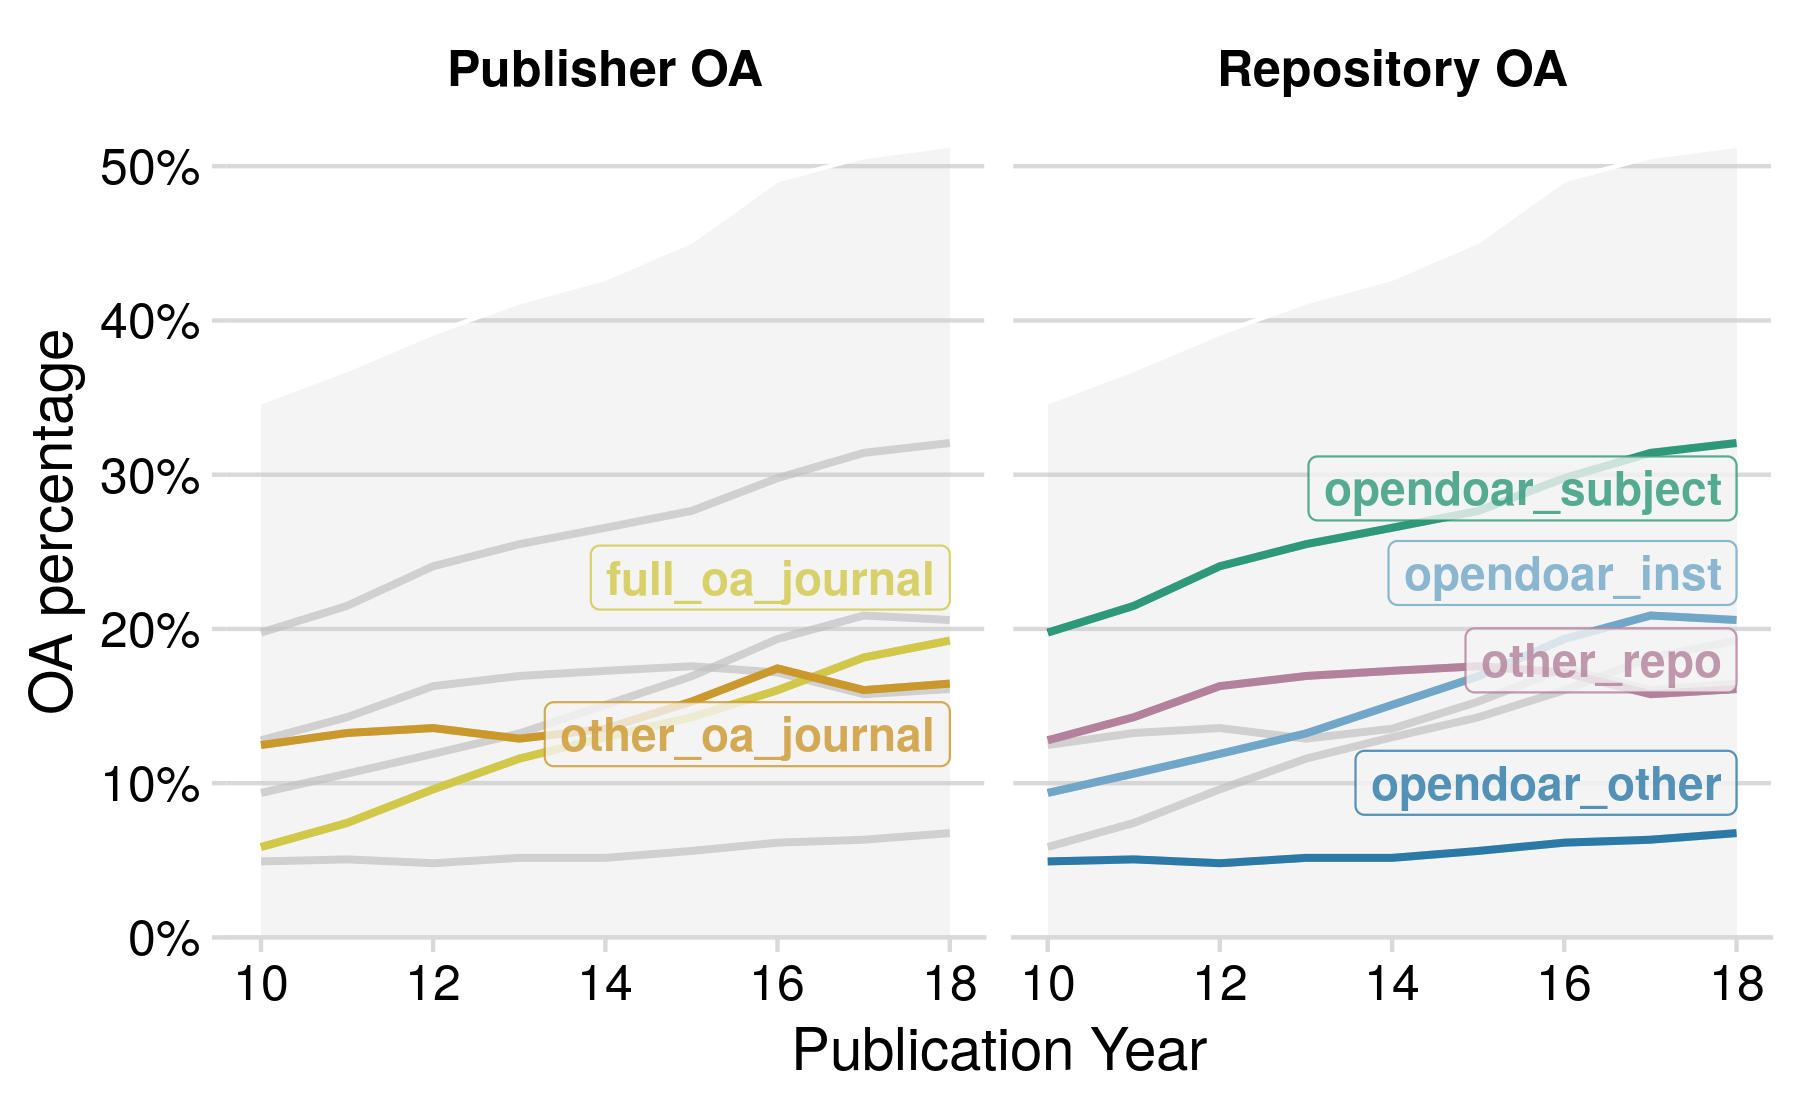
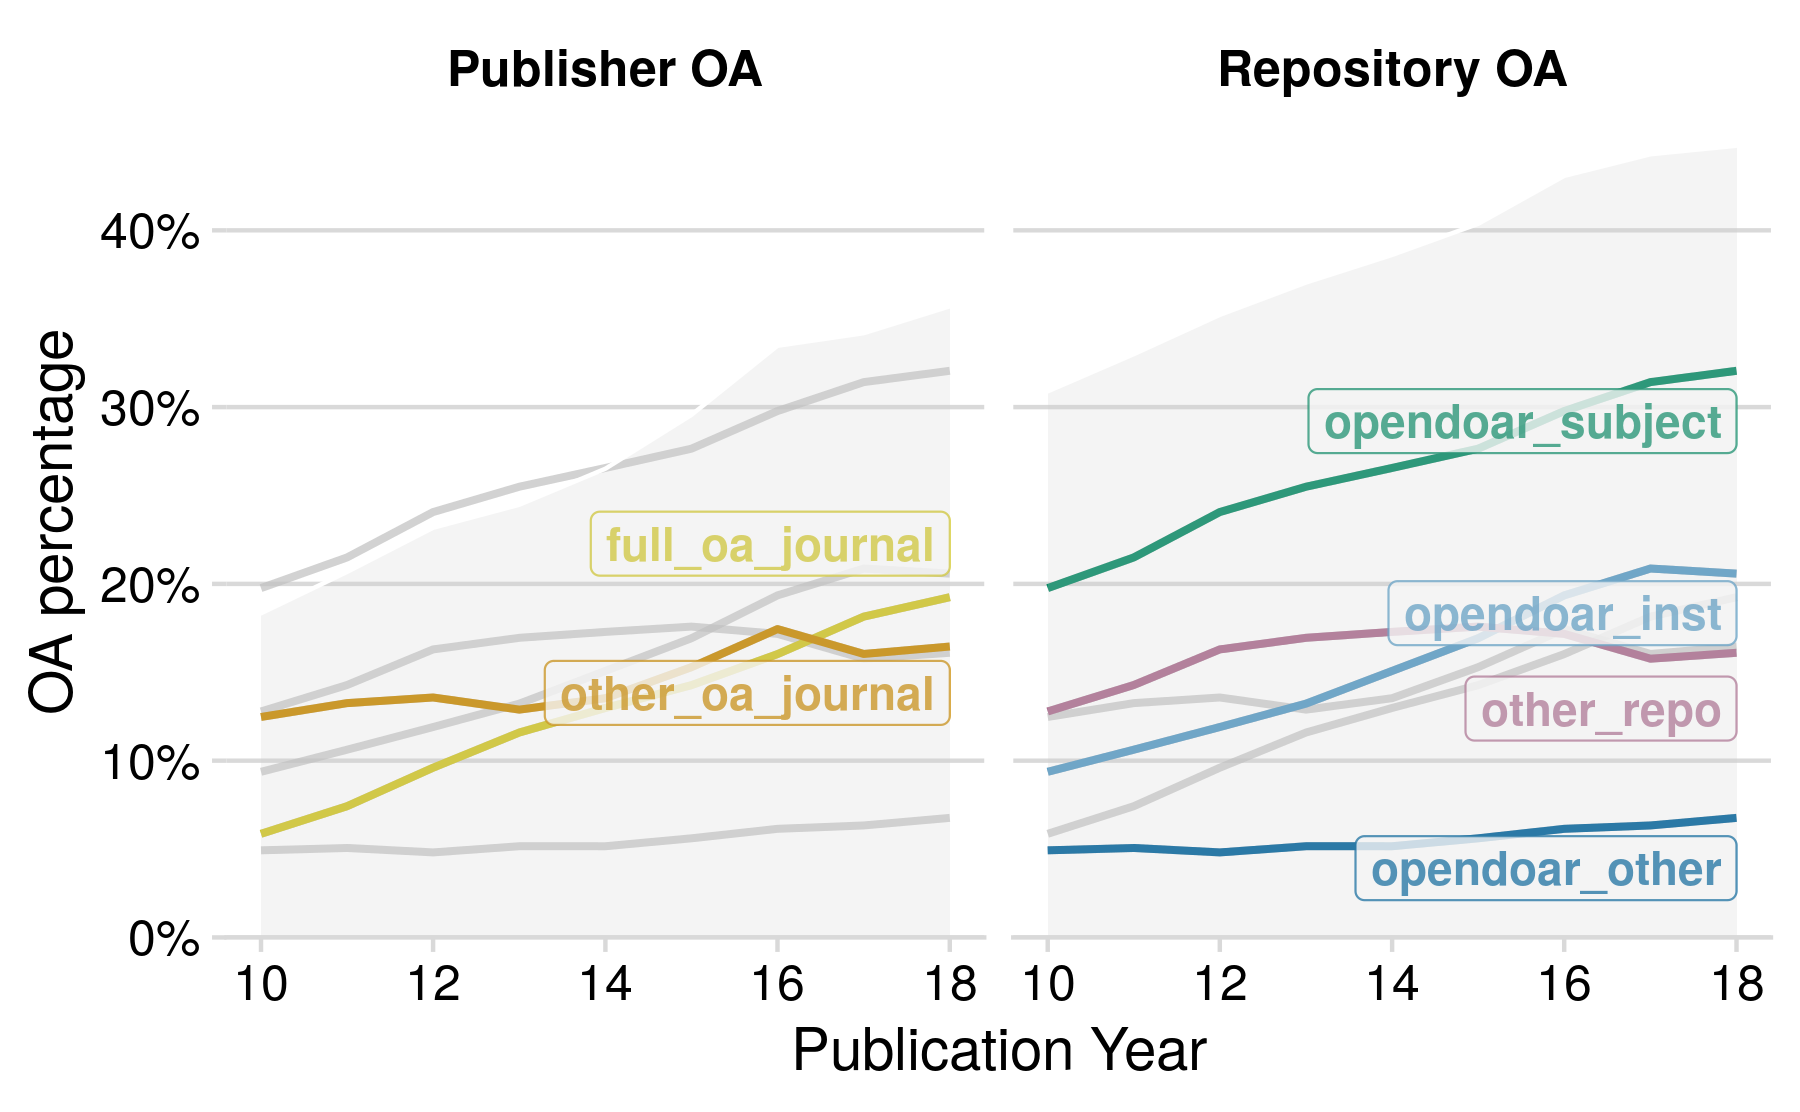
re-render

diff --git a/analysis.md b/analysis.md
@@ -66,7 +66,7 @@ sectors.
 
 <div class="figure" style="text-align: center">
 
-<img src="analysis_files/figure-gfm/unnamed-chunk-6-1.png" alt="Open access to journal articles per sector according to Unpaywall. Blue area represents journal articles with at least one freely available full-text, grey area represents toll-access articles. Sectors are ordered by publication output with the highest output top left and lowest at the bottom. Note that scales for the `y-axes` are not the same, since the total publication output varies significantly among sectors." width="90%" />
+<img src="analysis_files/figure-gfm/unnamed-chunk-5-1.png" alt="Open access to journal articles per sector according to Unpaywall. Blue area represents journal articles with at least one freely available full-text, grey area represents toll-access articles. Sectors are ordered by publication output with the highest output top left and lowest at the bottom. Note that scales for the `y-axes` are not the same, since the total publication output varies significantly among sectors." width="90%" />
 
 <p class="caption">
 
@@ -99,7 +99,7 @@ output.
 
 <div class="figure" style="text-align: center">
 
-<img src="analysis_files/figure-gfm/unnamed-chunk-8-1.png" alt="Open Access shares of research institutions in Germany with respect to their total publication output grouped by the sector they belong to. Only institutions with at least 100 publications are shown. Blue points correspond to single insitutions, gray lines are obained by linear regression within the sector, gray areas are pointwise symmetric 95% t-distribution confidence bands. Scales of the x-axes vary across subplots in order to adapt to the different publication volumes. Dashed lines show the median value per sector for the OA share (red) and the total number of publications (orange)." width="90%" />
+<img src="analysis_files/figure-gfm/unnamed-chunk-7-1.png" alt="Open Access shares of research institutions in Germany with respect to their total publication output grouped by the sector they belong to. Only institutions with at least 100 publications are shown. Blue points correspond to single insitutions, gray lines are obained by linear regression within the sector, gray areas are pointwise symmetric 95% t-distribution confidence bands. Scales of the x-axes vary across subplots in order to adapt to the different publication volumes. Dashed lines show the median value per sector for the OA share (red) and the total number of publications (orange)." width="90%" />
 
 <p class="caption">
 
@@ -133,7 +133,7 @@ before.
 
 <div class="figure" style="text-align: center">
 
-<img src="analysis_files/figure-gfm/unnamed-chunk-9-1.png" alt="OA shares of German research institutions per sector. The color of the boxes groups sectors into universities with a typically high total journal publication output, research-oriented institutes with a medium journal publication output and practise oriented institutions with a comparatively low journal publication output. Gray points display the OA shares for individual institutions." width="90%" />
+<img src="analysis_files/figure-gfm/unnamed-chunk-8-1.png" alt="OA shares of German research institutions per sector. The color of the boxes groups sectors into universities with a typically high total journal publication output, research-oriented institutes with a medium journal publication output and practise oriented institutions with a comparatively low journal publication output. Gray points display the OA shares for individual institutions." width="90%" />
 
 <p class="caption">
 
@@ -165,21 +165,41 @@ of OA categories in our dataset.
 
 Keeping in mind that our categories are non-exclusive, as just shown, we
 now visualise the number of articles per category on the national level,
-that is, without differentiation by
-sector.
+that is, without differentiation by sector. As a first step, we
+investigate the two main OA routes via publisher or via
+repository.
 
 <div class="figure" style="text-align: center">
 
-<img src="analysis_files/figure-gfm/unnamed-chunk-12-1.png" alt="Development of the percentage of journal articles per OA category (as per schema in Table 1) over time. Categories are non-exclusive, that is some articles may be counted for more than one category. Colors correspond to the OA category. Grey area displays the total percentage of OA publications. On the left, access provided via a publisher is highlighted, on the right via repositories. " width="90%" />
+<img src="analysis_files/figure-gfm/unnamed-chunk-11-1.png" alt="Development of the number of articles per OA host type and their overlap. Highlighted in blue are the number of articles per OA host type with articles made available only via the publisher on the left, articles available only in repositories on the right and the overlap, that is, articles openly accessible via both a publisher hosted platform and a repository, in the middle. Grey Area shows the remaining OA articles." width="90%" />
+
+<p class="caption">
+
+Development of the number of articles per OA host type and their
+overlap. Highlighted in blue are the number of articles per OA host type
+with articles made available only via the publisher on the left,
+articles available only in repositories on the right and the overlap,
+that is, articles openly accessible via both a publisher hosted platform
+and a repository, in the middle. Grey Area shows the remaining OA
+articles.
+
+</p>
+
+</div>
+
+<div class="figure" style="text-align: center">
+
+<img src="analysis_files/figure-gfm/unnamed-chunk-12-1.png" alt="Development of the percentage of journal articles per OA category (as per schema in Table 1) over time. Categories are non-exclusive, that is some articles may be counted for more than one category. Colors correspond to the OA category. On the left, access provided via a publisher is highlighted, on the right via repositories. Grey area displays the total percentage of OA via the corresponding route (publisher or repository). " width="90%" />
 
 <p class="caption">
 
 Development of the percentage of journal articles per OA category (as
 per schema in Table 1) over time. Categories are non-exclusive, that is
 some articles may be counted for more than one category. Colors
-correspond to the OA category. Grey area displays the total percentage
-of OA publications. On the left, access provided via a publisher is
-highlighted, on the right via repositories.
+correspond to the OA category. On the left, access provided via a
+publisher is highlighted, on the right via repositories. Grey area
+displays the total percentage of OA via the corresponding route
+(publisher or repository).
 
 </p>
 
@@ -215,6 +235,8 @@ Society).
 </p>
 
 </div>
+
+Generate tables for export:
 
 ### Discussion
 
